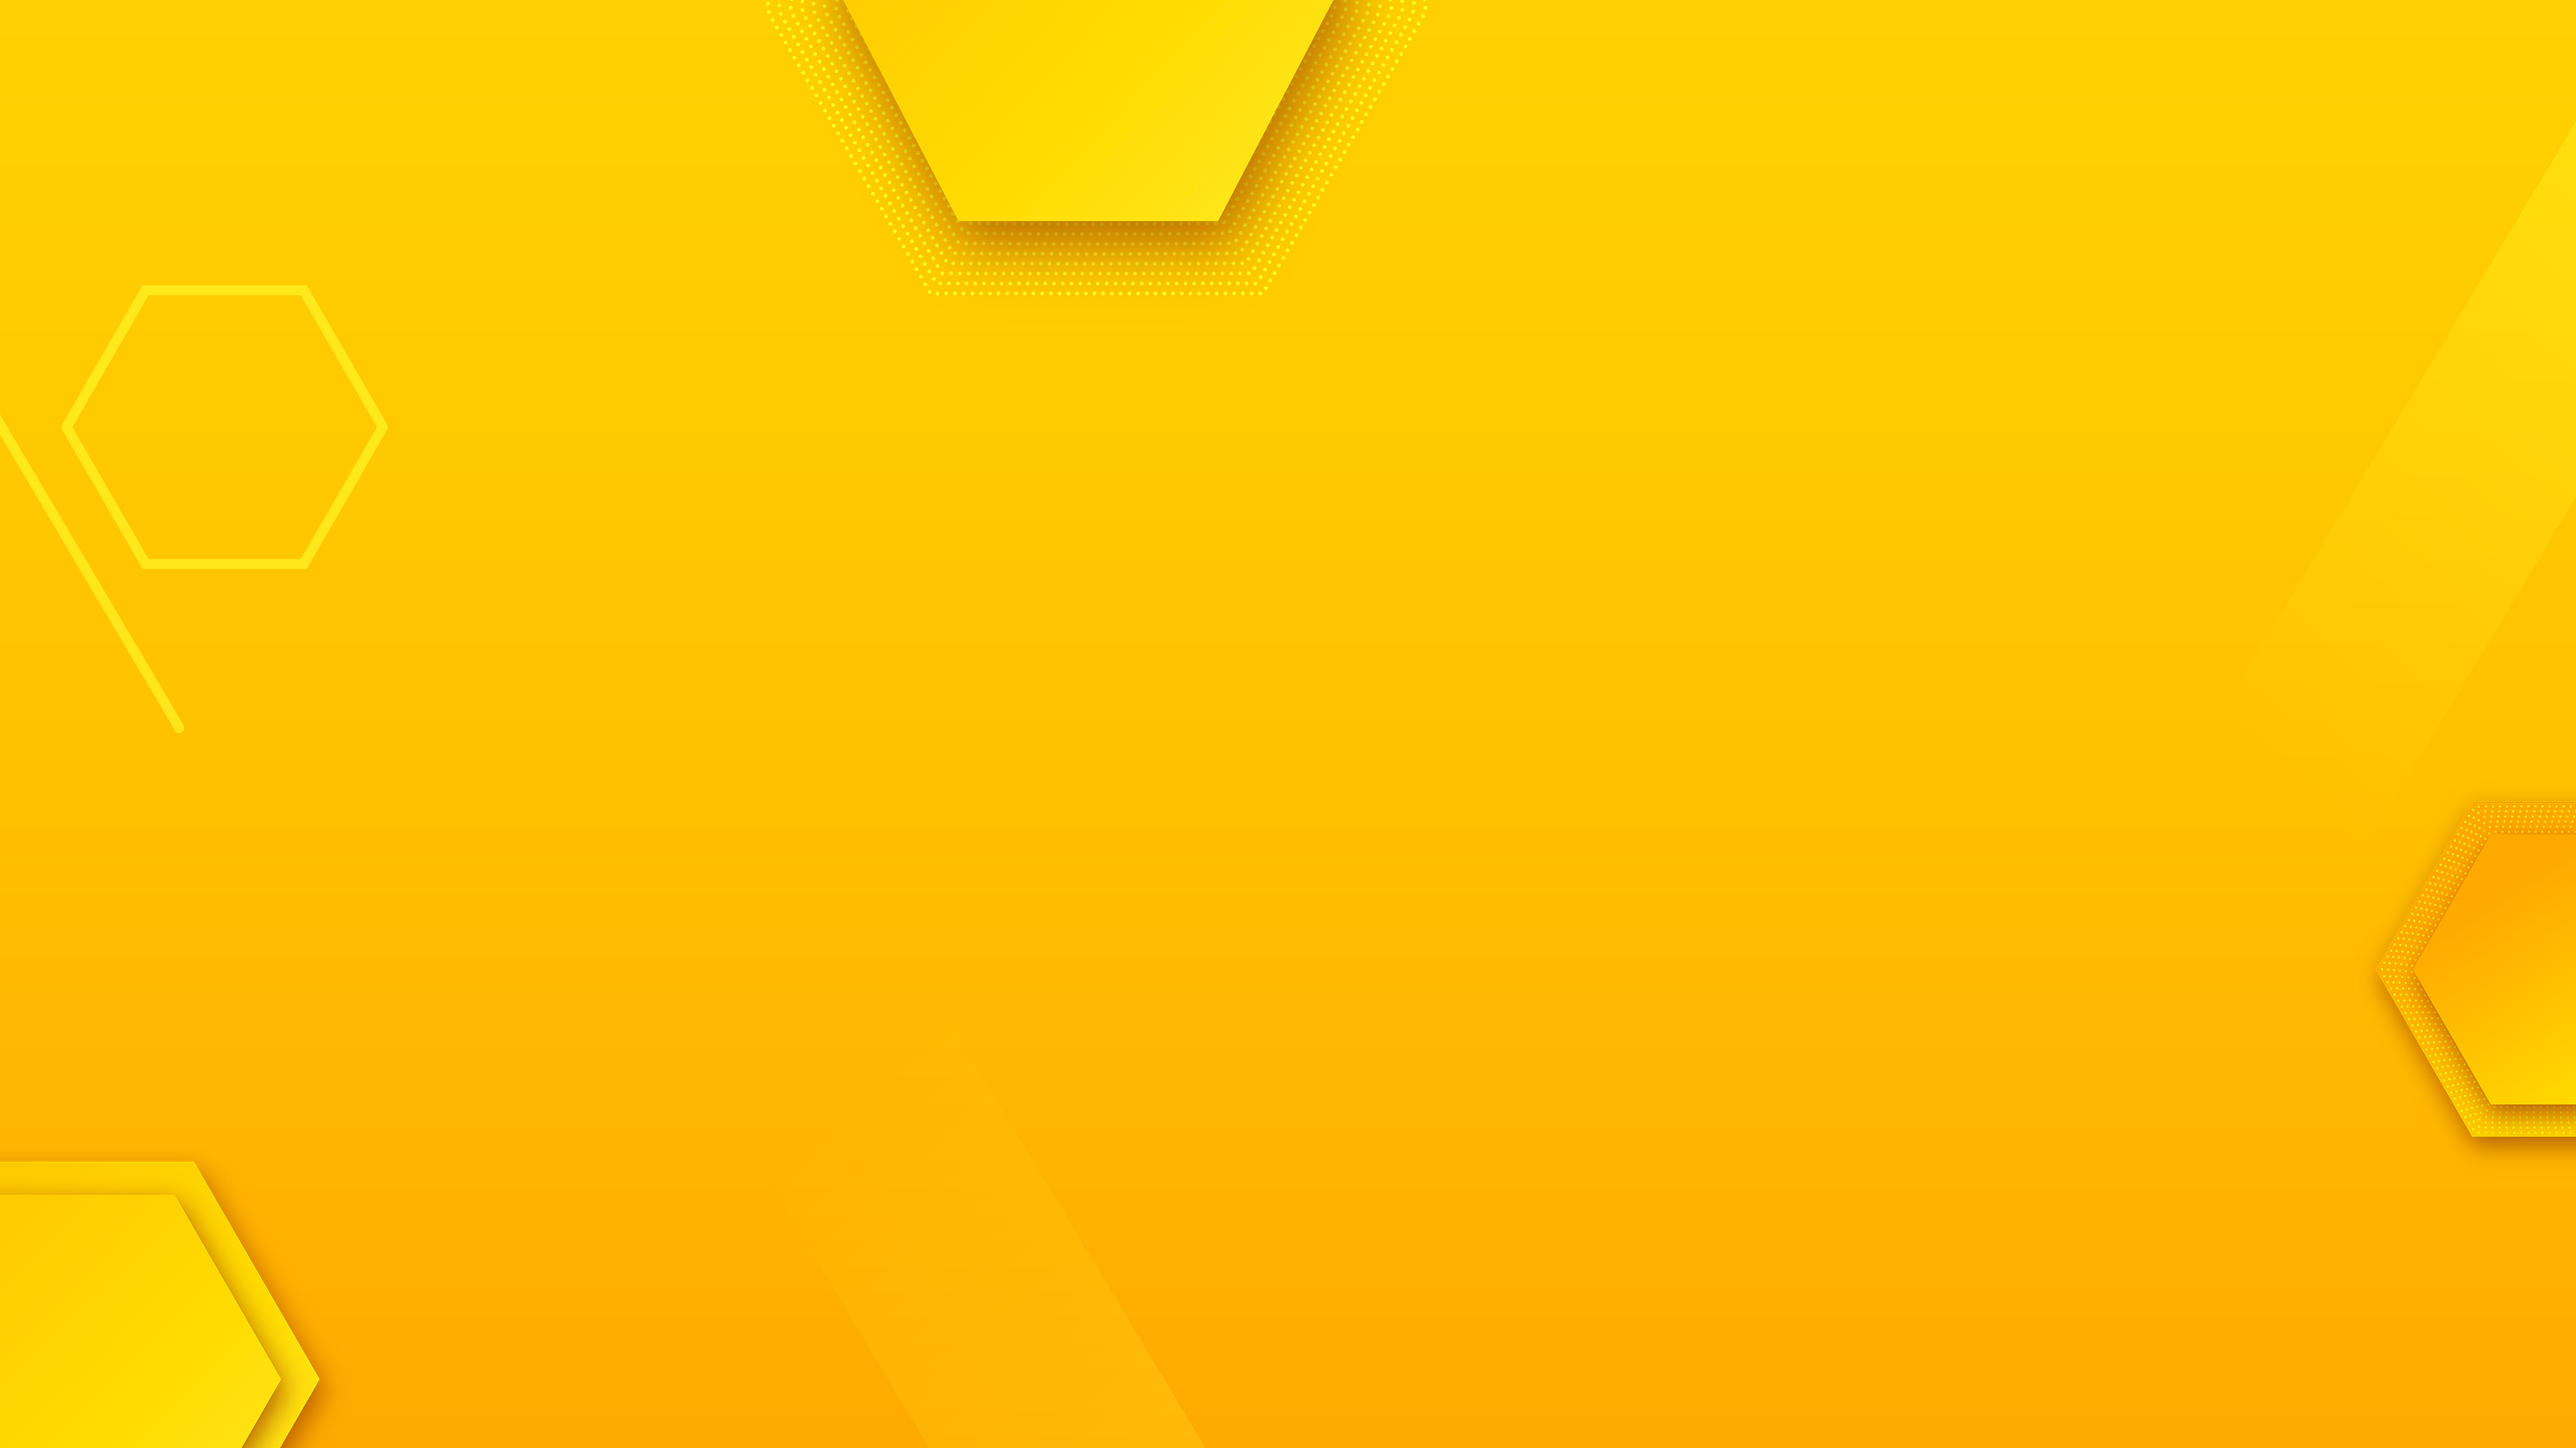
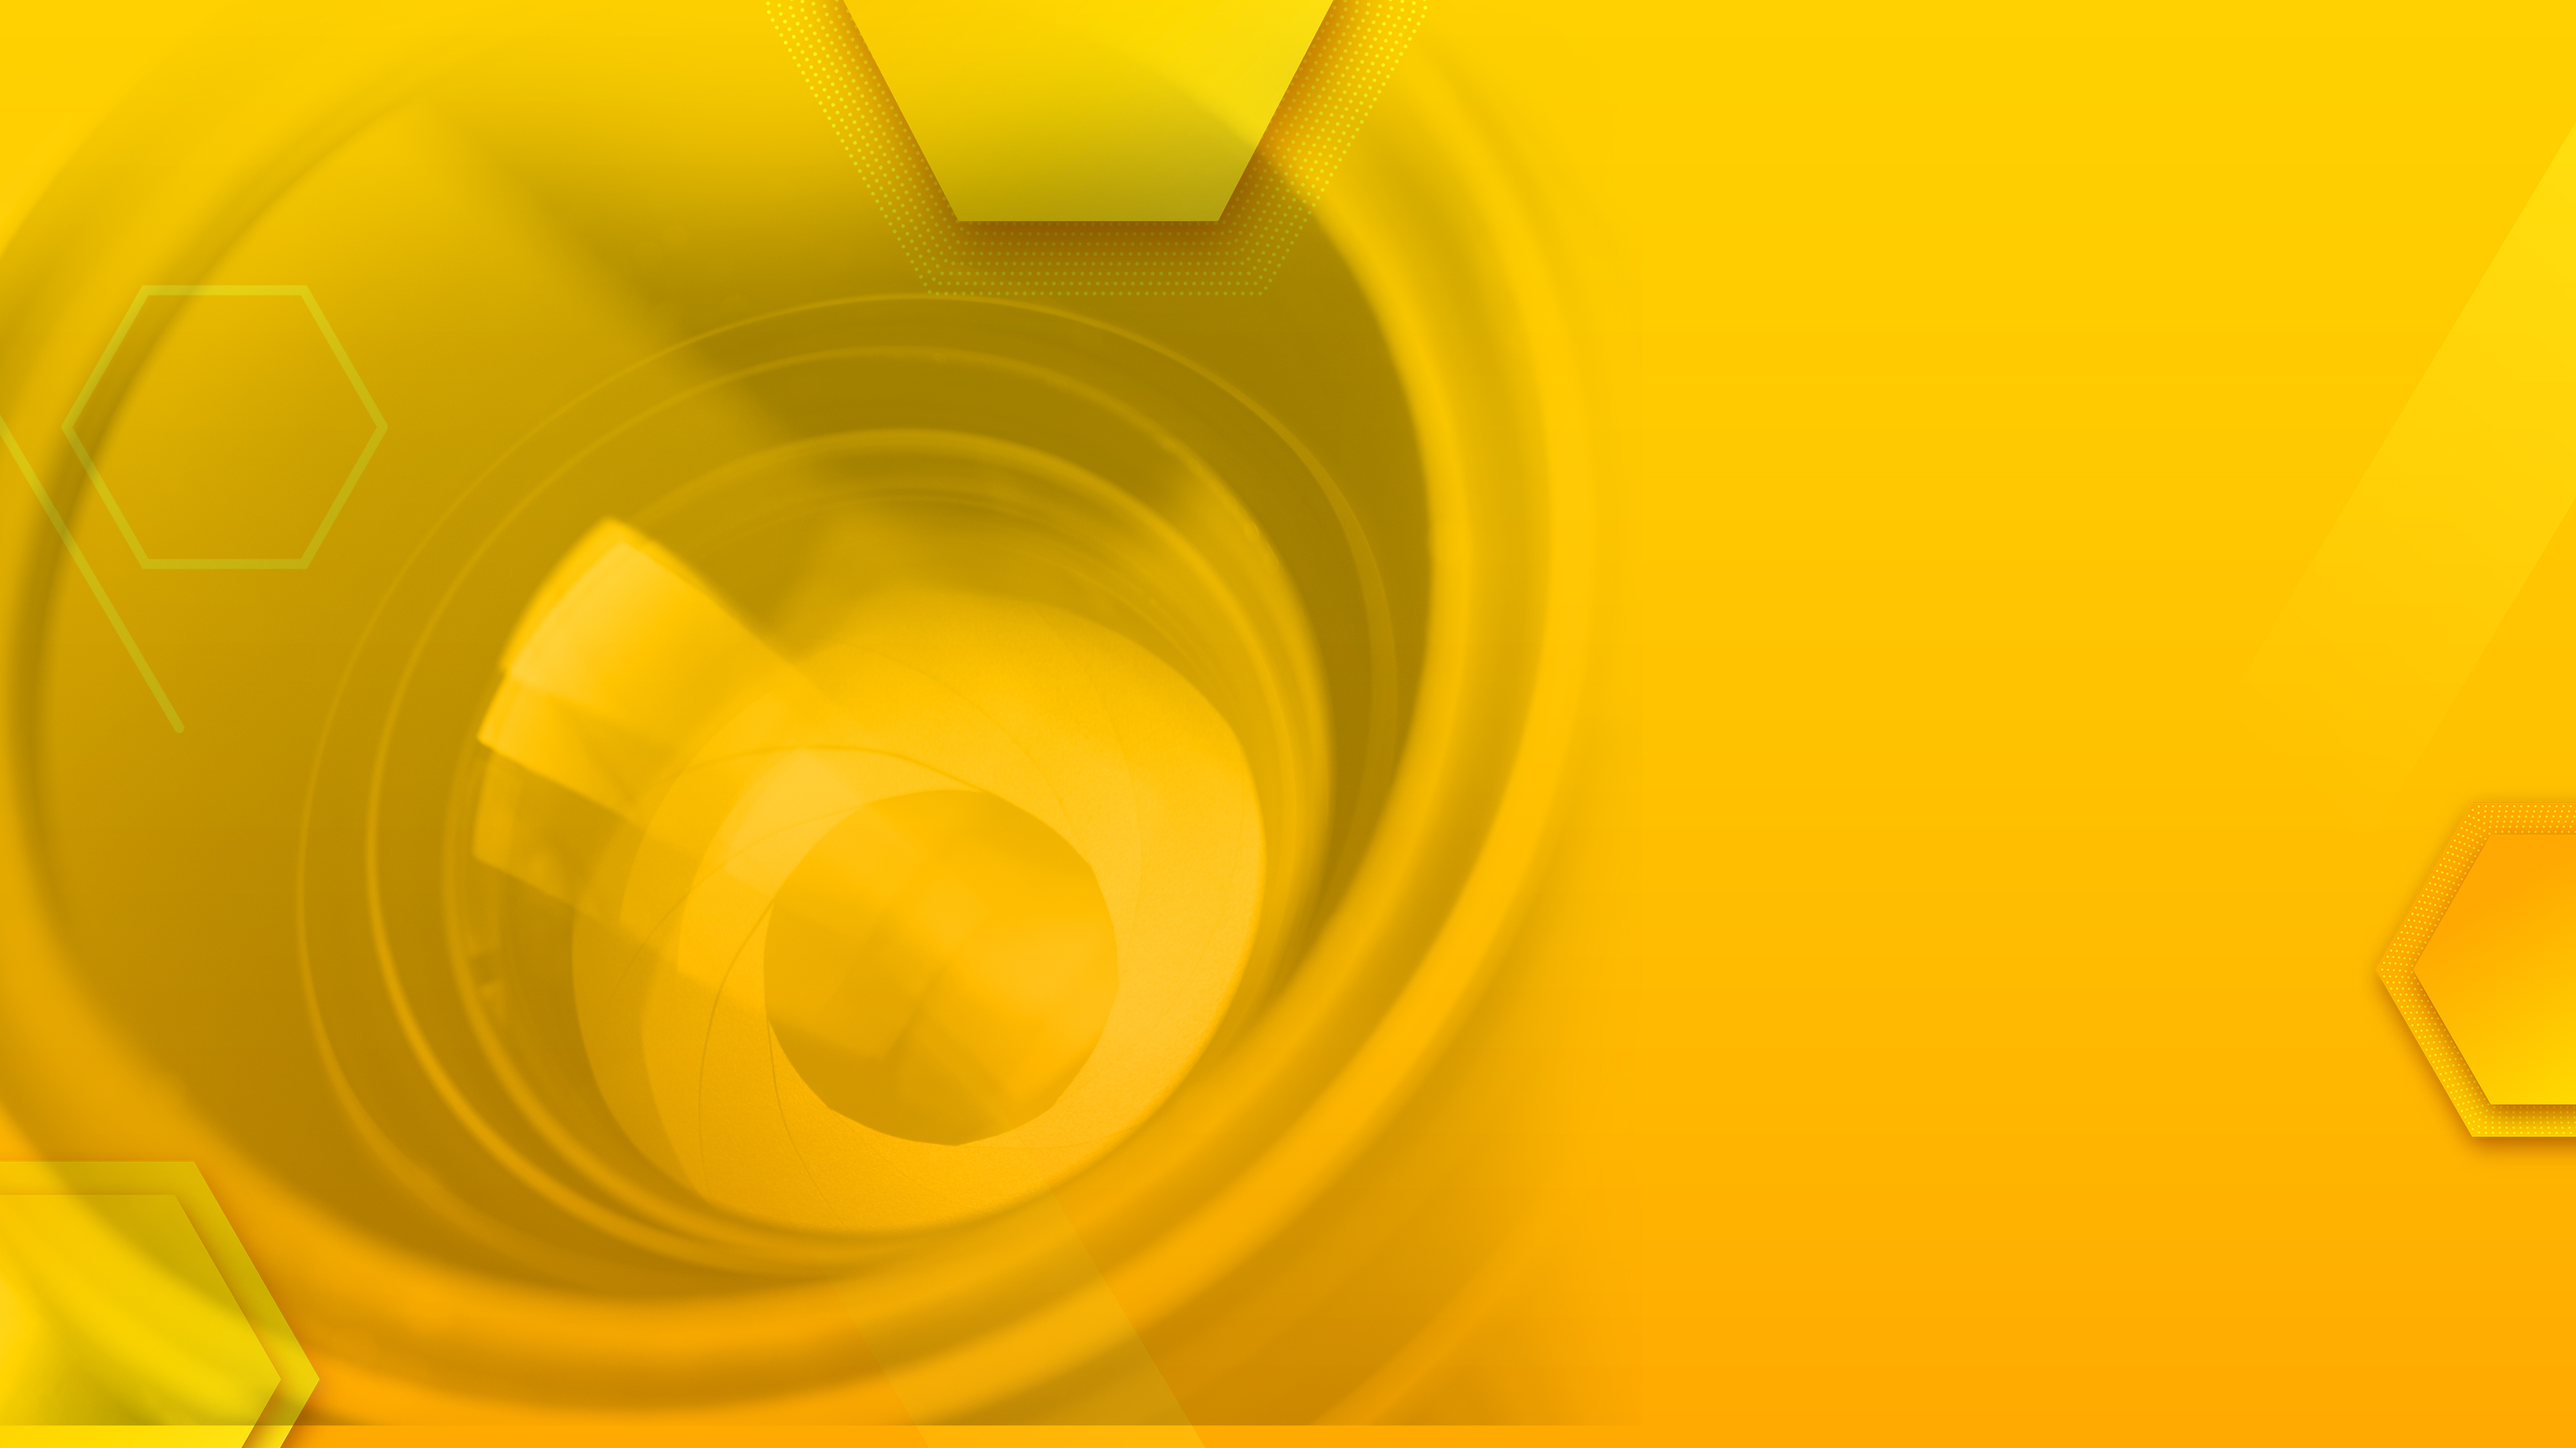
section added

diff --git a/src/Pages/Homes/Section6.js b/src/Pages/Homes/Section6.js
@@ -1,0 +1,103 @@
+import React from 'react';
+// Import Swiper React components
+import { Swiper, SwiperSlide } from 'swiper/react';
+// Import Swiper styles
+import 'swiper/css';
+import 'swiper/css/navigation';
+import 'swiper/css/pagination';
+import 'swiper/css/effect-coverflow';
+import { Pagination, Autoplay } from 'swiper/modules';
+import { Col, Container, Row } from 'react-bootstrap';
+import Image1 from "../../assets/post-1.jpg";
+import Image2 from "../../assets/post-2.jpg";
+import Image3 from "../../assets/post-3.jpg";
+import Image4 from "../../assets/post-4.jpg";
+import Cardsteam from '../../Component/Cardsteam';
+
+// Mock Data Cards
+const mockData = [
+  {
+    id: "0001",
+    name:"John Doe ",
+    image: Image1,
+    title: "CEO,Photographer",
+    paragraph: "Lorem ipsum dolor sit amet, consectetur adipiscing elit. ",
+  },
+  {
+    id: "0002",
+    name:"Rosy Jane",
+    image: Image2,
+    title: "Photographer",
+    paragraph: "Lorem ipsum dolor sit amet, consectetur adipiscing elit.",
+  },
+  {
+    id: "0003",
+    name:"Camelia Peter",
+    image: Image3,
+    title: "Photographer",
+    paragraph:"Lorem ipsum dolor sit amet, consectetur adipiscing elit. ",
+  },
+  {
+    id: "0004",
+    name:"Alexa Peter",
+    image: Image4,
+    title: "Photographer",
+    paragraph: "Lorem ipsum dolor sit amet, consectetur adipiscing elit. ",
+  },
+
+
+  // Add more mock data objects as needed
+];
+
+function Section6() {
+  return (
+    <section className='team_section'>
+     <div className='team_section_container'> 
+     
+     <div className='text-center mb-5' style={{ color: "white" }}>
+     <p style={{ fontFamily: "Montserrat, sans-serif", fontSize: "20px" }} className='mb-0'>Who We Are</p>
+     <h1 style={{ fontFamily: "Montserrat, sans-serif", fontWeight: 600 }}>MEET OUR TEAM</h1>
+   </div>
+   <Container>
+     <Row >
+       <Swiper
+         spaceBetween={50}
+         loop={true}
+         speed={600} // Adjusting the speed for a smoother transition
+         autoplay={{
+          delay: 3500,
+           disableOnInteraction: false,
+         }}
+         pagination={{ clickable: true }}
+         modules={[Pagination, Autoplay]}
+         className="mySwiper"
+         breakpoints={{
+           550: {
+             slidesPerView: 2,
+           },
+           992: {
+             slidesPerView: 3,
+           },
+
+         }}
+       >
+         {mockData.map((cardData, index) => (
+           <SwiperSlide key={index}>
+             <Cardsteam
+               image={cardData.image}
+               name={cardData.name}
+               title={cardData.title}
+               paragraph={cardData.paragraph}
+             />
+           </SwiperSlide>
+         ))}
+       </Swiper>
+     </Row>
+   </Container>
+     
+     </div>
+    </section>
+  );
+}
+
+export default Section6;

diff --git a/src/Styles/HomeStyle.css b/src/Styles/HomeStyle.css
@@ -106,7 +106,9 @@
 /*section5 */
 .ads_section{
     padding-top: 70px;
-    padding-bottom: 86px;
+    padding-bottom: 46px;
+    padding-left: 10px;
+    padding-right: 10px;
 }
 .ads_section_container{
     position: relative;
@@ -121,8 +123,20 @@
 .ads_section_container h2{
     font-weight: 600;
     font-size: 2.7rem;
-    text-shadow:rgba(0, 0, 0, 0.5) 1px 1px 2px ;
+    text-shadow: rgb(5 5 5) 3px 3px 4px;
+    color: #fff7c3;
+   
+
+}
+.ads_section_container h5{
+    font-weight: 600;
+    text-shadow: rgb(255, 255, 255) 1px 0px 2px;
+    color: #141414;
  
+}
+
+.ads_section_container p{
+    font-weight: 600;
 }
 .ads_section_container_col1{
     margin-left: 41px;
@@ -130,6 +144,21 @@
 .ads_girl_img{
     max-width: 300px!important;
     max-height: 300px !important;
+}
+/* section6 team section*/
+.team_section{
+    padding-top: 40px;
+    padding-bottom: 86px;
+    background-image: url(../assets/team_back.jpg); 
+    background-size: cover;
+  
+    background-repeat: no-repeat; 
+   
+    height:100%;
+}
+.team_section_container{
+    padding-top: 140px;
+    padding-bottom: 40px;
 }
 @media (max-width: 992px) {
     /*home section */
@@ -168,7 +197,7 @@
 @media (max-width: 450px){
     /*section 5*/
     .ads_section_container h2{
-        font-size: 1.8rem;
+        font-size: 1.5rem;
     }
     .ads_girl_img{
         max-width: 200px!important;

diff --git a/src/Pages/Homes/Section5.js b/src/Pages/Homes/Section5.js
@@ -10,15 +10,15 @@ function Section5() {
      <div className='d-flex justify-content-center align-items-center  mt-4 ads_section_container_col1'>
          <div>
          <h2 className='mb-0' >Photography</h2>
-         <h2 className='text-center mb-0 mt-0' >Workshop</h2>
+         <h2 className='mx-2 mb-0 mt-0' >Workshop</h2>
          <h2 className='mt-0' >for Beginners</h2>
          <h5 className='mb-0 text-center' style={{fontFamily:"cursive",fontWeight:600}}>Discount 35% Off</h5>
          <p className='mt-0 text-center mb-0'>Start From 7-13 june 2021</p>
          <div className="d-flex justify-content-center mt-1">
-         <i className="bi bi-facebook mx-1"></i>
-         <i className="bi bi-whatsapp mx-1"></i>
-         <i className="bi bi-instagram mx-1"></i>
-         <i className="bi bi-twitter-x mx-1"></i>
+         <i className="bi bi-facebook mx-1" style={{color:"blue"}}></i>
+         <i className="bi bi-whatsapp mx-1" style={{color:"green"}}></i>
+         <i className="bi bi-instagram mx-1" style={{color:"red"}}></i>
+         <i className="bi bi-twitter-x mx-1" style={{color:"black"}}></i>
          </div>
          </div>
      </div>

diff --git a/src/Component/Cardsteam.js b/src/Component/Cardsteam.js
@@ -1,0 +1,29 @@
+import React from 'react'
+import { Col, Card } from "react-bootstrap";
+import { Link } from "react-router-dom";
+import "../Styles/CardteamStyle.css"
+function Cardsteam({image,title, paragraph,name}) {
+  return (
+    <Col className="mb-5 team_section_col">
+    <Card className="overflow-hidden team_section_card">
+      <div className="overflow-hidden card_teamimage_dim ">
+        <Card.Img variant="top" src={image} />
+        
+      </div>
+      <Card.Body className='text-center ' >
+        <Card.Title className='mb-0'>{name}</Card.Title>
+        <p className='mb-1' style={{color:"grey"}}>{title}</p>
+        <Card.Text className='mb-4' >{paragraph}</Card.Text>
+        <div className="d-flex justify-content-center mt-1 mb-3">
+         <i className="bi bi-facebook mx-1" ></i>
+         <i className="bi bi-whatsapp mx-1" ></i>
+         <i className="bi bi-instagram mx-1" ></i>
+         <i className="bi bi-twitter-x mx-1" ></i>
+         </div>
+      </Card.Body>
+    </Card>
+  </Col>
+  )
+}
+
+export default Cardsteam

diff --git a/src/Styles/CardteamStyle.css b/src/Styles/CardteamStyle.css
@@ -1,0 +1,45 @@
+.card_teamimage_dim {
+    position: relative;
+    overflow: hidden;
+  }
+  
+  .card_teamimage_dim img {
+    transition: transform 0.3s ease;
+  }
+  
+  .card_teamimage_dim::after {
+    content: "";
+    position: absolute;
+    top: 0;
+    left: 0;
+    width: 100%;
+    height: 100%;
+    background: linear-gradient(to bottom, rgb(0 0 0 / 42%), rgb(0 0 0 / 44%));
+    opacity: 0;
+    transition: opacity 0.3s ease;
+  }
+  
+  .card_teamimage_dim:hover img {
+    transform: scale(1.1);
+    
+  }
+  .card_image_teamdim:hover  {
+    cursor: pointer;
+  }
+  
+  .card_image_teamdim:hover::after {
+    opacity: 1;
+  }
+  .team_section_card{
+    
+  }
+  .team_section_col .card {
+    --bs-card-border-width: 0px!important;
+    --bs-card-border-color: none!important; 
+     --bs-card-border-radius: 0px !important; 
+    --bs-card-box-shadow:none !important;
+     --bs-card-inner-border-radius: 0px!important;
+  }
+
+
+  

diff --git a/src/Pages/Homes/Section3.js b/src/Pages/Homes/Section3.js
@@ -82,6 +82,16 @@ function Section3() {
               pagination={{ clickable: true }}
               modules={[Navigation, Pagination, Autoplay, EffectCoverflow]}
               className="mySwiper "
+              
+            breakpoints={{
+              250: {
+                slidesPerView: 2,
+              },
+              500: {
+                slidesPerView: 3,
+              },
+
+            }}
 
             >
               {mockData.map((galimage, index) => (

diff --git a/src/Pages/Homes/Homes.js b/src/Pages/Homes/Homes.js
@@ -6,6 +6,7 @@ import Section2 from './Section2'
 import Section3 from './Section3'
 import Section4 from './Section4'
 import Section5 from './Section5'
+import Section6 from './Section6'
 
 function Homes() {
   return (
@@ -21,7 +22,8 @@ function Homes() {
       <Section4 />   
       {/* <Section5 /> */}
       <Section5 /> 
-      
+      {/* <Section6 /> */}
+      <Section6 /> 
     </Layout>
     
     </div>

diff --git a/src/Component/Cards.js b/src/Component/Cards.js
@@ -4,7 +4,7 @@ import { Link } from "react-router-dom";
 import "../Styles/CardsStyle.css"
 function Cards({image,title, paragraph}) {
   return (
-    <Col className="mb-5">
+    <Col className="mb-5 card_section">
     <Card className="overflow-hidden">
       <div className="overflow-hidden card_image_dim">
         <Card.Img variant="top" src={image} />

diff --git a/src/Styles/CardsStyle.css b/src/Styles/CardsStyle.css
@@ -31,7 +31,7 @@
     opacity: 1;
   }
 
-  .card {
+  .card_section .card {
     border-color: goldenrod!important;
     box-shadow: 0 0 4px 1px rgb(88 75 1 / 60%);
   }
